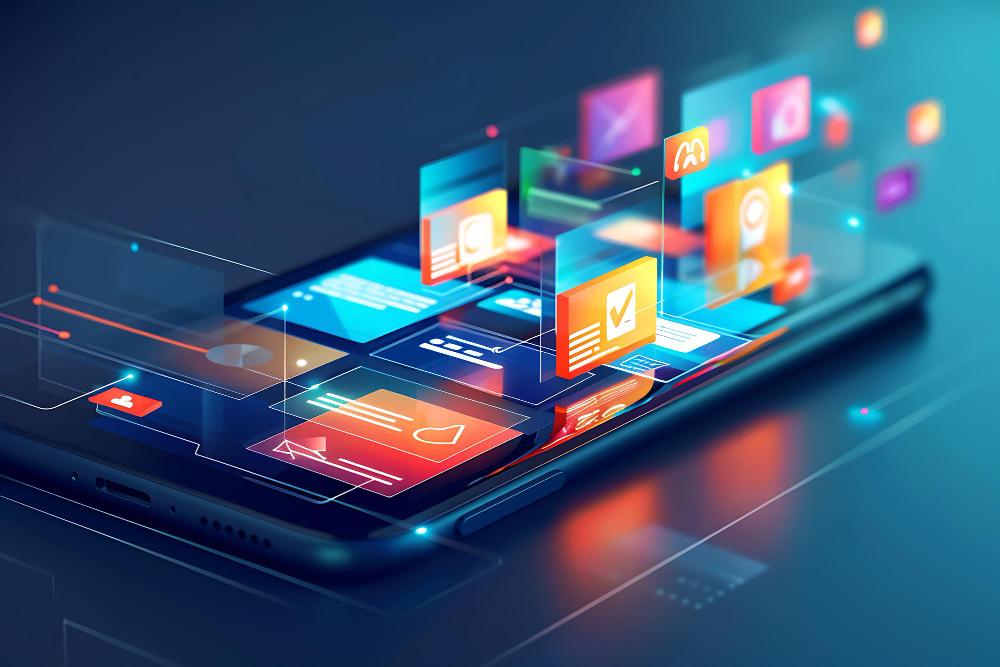
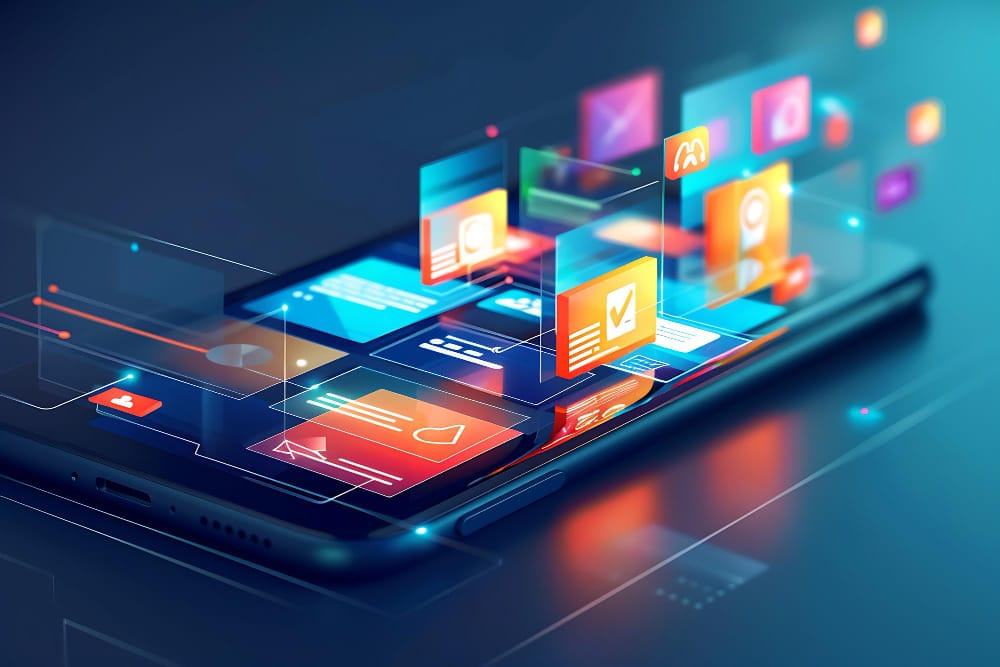
/services: wire service card image slot + optimize app-development.jpg
Service cards now render a real photographic visual when a per-service
image is provided, and fall back to the existing gradient + icon tile
when none is set. next/image handles responsive sizes and format
negotiation (WebP / AVIF) at request time.

First image landed and wired: app-development.jpg. Optimized with
sharp (max 1600 width, mozjpeg quality 80, progressive): 339 KB ->
62 KB (82% smaller) before Next.js further optimises at delivery.
Remaining service images will follow the same optimisation path as
they land in public/images/.

Also removed an em-dash from the app-development description to stay
voice-rule compliant.

diff --git a/aci-infotech/src/app/services/page.tsx b/aci-infotech/src/app/services/page.tsx
@@ -1,4 +1,5 @@
 import Link from 'next/link';
+import Image from 'next/image';
 import { Metadata } from 'next';
 import {
   ArrowRight,
@@ -84,10 +85,11 @@ const services = [
     icon: Code2,
     title: 'App Development',
     tagline: 'Applications Built to Survive Production',
-    description: 'Enterprise application engineering that sits on top of your data and AI delivery. Custom, web, and AI-powered applications built with the rigor of production infrastructure — not agency output.',
+    description: 'Enterprise application engineering that sits on top of your data and AI delivery. Custom, web, and AI-powered applications built with the rigor of production infrastructure, not agency output.',
     capabilities: ['Enterprise Application Development', 'AI-Powered Applications', 'API & Integration', 'Legacy Modernization'],
     technologies: ['Next.js', 'React', 'Node.js', 'Python', 'TypeScript', 'GraphQL'],
     href: '/services/app-development',
+    image: '/images/app-development.jpg',
   },
   {
     id: 'qa-testing',
@@ -230,9 +232,21 @@ export default function ServicesPage() {
 
                   {/* Visual */}
                   <div className="flex-1 w-full">
-                    <div className="bg-gradient-to-br from-[var(--aci-primary)] to-[var(--aci-secondary)] rounded-2xl aspect-[4/3] flex items-center justify-center">
-                      <Icon className="w-24 h-24 text-white/30" />
-                    </div>
+                    {service.image ? (
+                      <div className="relative w-full aspect-[4/3] overflow-hidden rounded-2xl">
+                        <Image
+                          src={service.image}
+                          alt={service.title}
+                          fill
+                          sizes="(min-width: 1024px) 560px, 100vw"
+                          className="object-cover"
+                        />
+                      </div>
+                    ) : (
+                      <div className="bg-gradient-to-br from-[var(--aci-primary)] to-[var(--aci-secondary)] rounded-2xl aspect-[4/3] flex items-center justify-center">
+                        <Icon className="w-24 h-24 text-white/30" />
+                      </div>
+                    )}
                   </div>
                 </div>
               );
